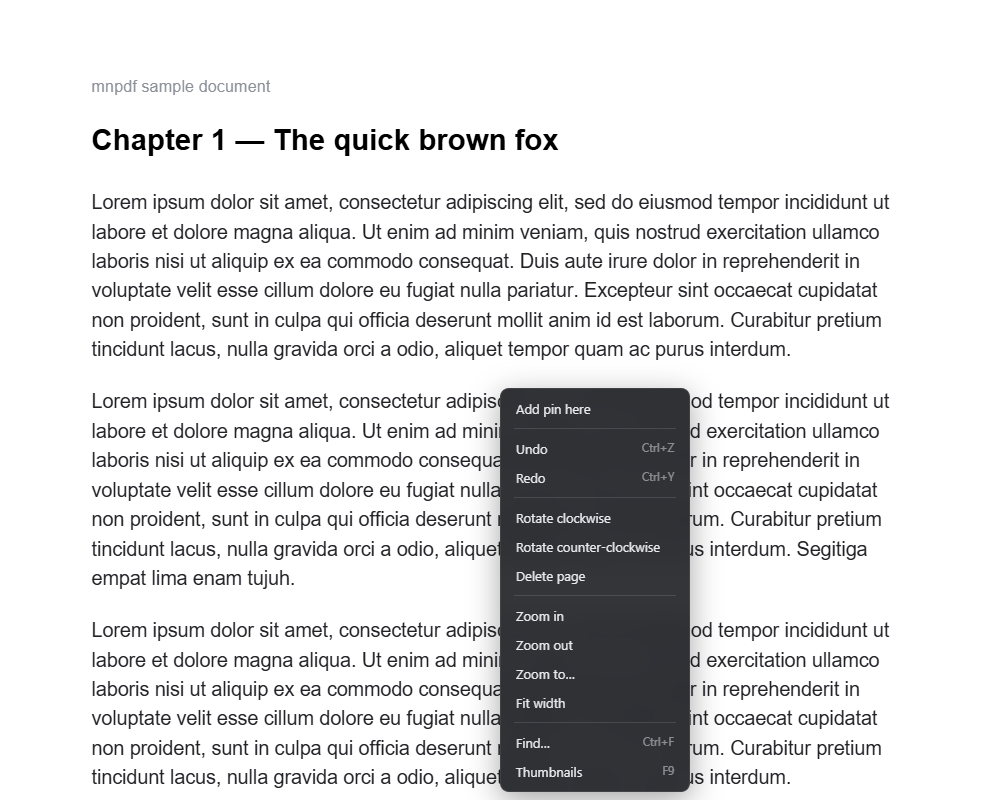
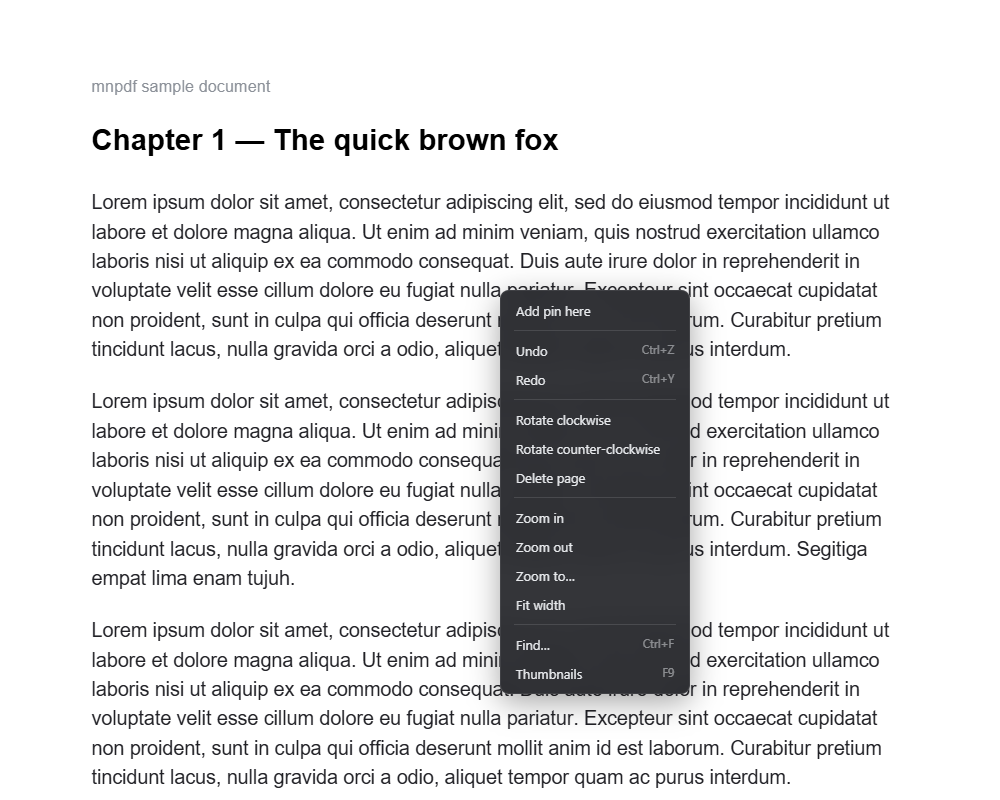
v0.9: plain text selection is the primary flow (no auto-highlight on release); context menu opens upward near the bottom edge

diff --git a/src/annos.js b/src/annos.js
@@ -169,20 +169,7 @@ function initManualSelection() {
     },
     true,
   );
-  document.addEventListener(
-    'mouseup',
-    () => {
-      const dragging = !!selAnchor;
-      selAnchor = null;
-      // release = instant highlight in the current color (the selection itself
-      // converts; no second step). Double-click word selections (which never
-      // set the manual anchor) stay as selections for native copy.
-      if (!dragging) return;
-      const info = selectionInfo();
-      if (info) addHighlight(info, S.hlColor);
-    },
-    true,
-  );
+  document.addEventListener('mouseup', () => { selAnchor = null; }, true);
   window.addEventListener('blur', () => { selAnchor = null; });
 }
 

diff --git a/src/menu.js b/src/menu.js
@@ -38,7 +38,11 @@ export function showMenu(x, y, items) {
   document.body.appendChild(root);
   const r = root.getBoundingClientRect();
   root.style.left = Math.max(6, Math.min(x, window.innerWidth - r.width - 8)) + 'px';
-  root.style.top = Math.max(6, Math.min(y, window.innerHeight - r.height - 8)) + 'px';
+  // not enough room below the click? open UPWARD, bottom edge at the click
+  let top;
+  if (y + r.height + 8 <= window.innerHeight) top = y;
+  else top = Math.max(6, y - r.height - 6);
+  root.style.top = top + 'px';
 }
 
 export function init() {
